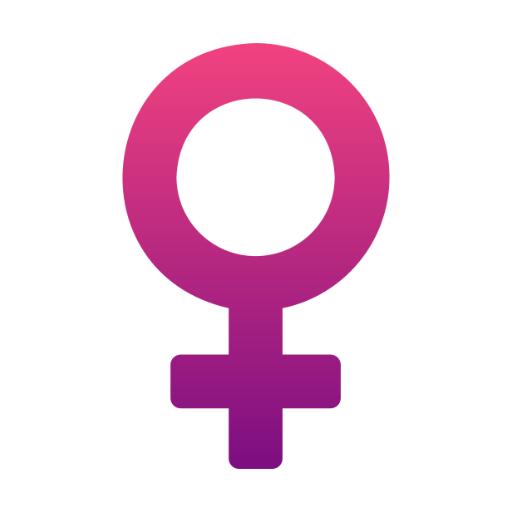
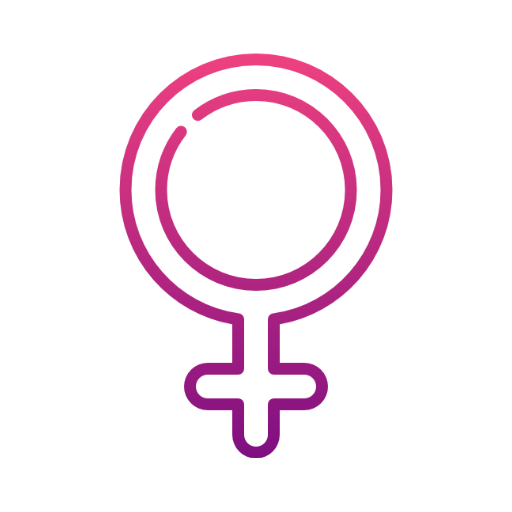
Ajustes - Michelle

Changed region(s): [[0.2188, 0.0625, 0.7812, 0.9375]]

diff --git a/feed-pet/client/src/components/ComponentsReact/PaginaAnimal/FormularioAnimal/styles.css b/feed-pet/client/src/components/ComponentsReact/PaginaAnimal/FormularioAnimal/styles.css
@@ -21,7 +21,8 @@
     border: none;
     border-radius: 0;
     border-bottom: 3px solid pink;
-    border-image: linear-gradient(to right, rgba(255,107,222,1) ,rgba(191,122,221,1), rgba(154,52,255,1));
+    /* border-image: linear-gradient(to right, rgba(255,107,222,1) ,rgba(191,122,221,1), rgba(154,52,255,1)); */
+    border-image: radial-gradient(circle, rgba(255,72,128,1) 42%, rgba(104,6,130,1) 100%);
     border-image-slice: 1;
 }
 
@@ -65,7 +66,7 @@
 }
 
 .radiooptionsAnimalForm .form-check{
-    border: 1px solid #ccc;
+    border: 0px solid #ccc;
     border-radius: 100%;
     height: 7vh;
     position: relative;
@@ -73,7 +74,7 @@
 }
 
 .radiooptionsAnimalForm .form-check{
-    border: 1px solid #ccc;
+    border: 0px solid #ccc;
     border-radius: 100%;
     float: left;
     height: 8vh;
@@ -101,73 +102,76 @@
 }
 
 
-.radiooptionsAnimalForm input:checked + label{
+/* .radiooptionsAnimalForm input:checked + label{
     -webkit-box-shadow: 0px 0px 15px 5px #ffffff; 
     box-shadow: 0px 0px 15px 5px #ffffff;
     
+} */
+.radiooptionsAnimalForm input:checked + label{
+    -webkit-box-shadow: 0px 0px 10px 3px #ff487fc0; 
+    box-shadow: 0px 0px 10px 3px #ff487fc0;
 }
 
 .radiooptionsAnimalForm .cao label{
-    background-image: url('../../../../assets/caoicon.png');
+    background-image: url(https://i.imgur.com/3bqxcS1.png);
     background-size: cover;
 }
 
 .radiooptionsAnimalForm .cao input:checked + label{
-    background-image: url('../../../../assets/caoicon-ativo.png');
+    background-image: url(https://i.imgur.com/jAT0KxA.png);
     background-size: cover;
 }
 
 .radiooptionsAnimalForm .gato label{
-    background-image: url('../../../../assets/gatoicon.png');
+    background-image: url(https://i.imgur.com/tldds0b.png);
     background-size: cover;
 }
 
 .radiooptionsAnimalForm .gato input:checked + label{
-    background-image: url('../../../../assets/gatoicon-ativo.png');
+    background-image: url(https://i.imgur.com/JFwTgTv.png);
     background-size: cover;
 }
 
 .radiooptionsAnimalForm .sim label{
-    background-image: url('../../../../assets/temdono-icon.png');
+    background-image: url(https://i.imgur.com/ZTrj4t3.png);
     background-size: cover;
 }
 
 .radiooptionsAnimalForm .sim input:checked + label{
-    background-image: url('../../../../assets/temdono-icon-ativo.png');
+    background-image: url(https://i.imgur.com/iU7mJQA.png);
     background-size: cover;
 }
 
 
 .radiooptionsAnimalForm .nao label{
-    background-image: url('../../../../assets/naotemdono-icon.png');
+    background-image: url(https://i.imgur.com/SExCzss.png);
     background-size: cover;
 }
 
 .radiooptionsAnimalForm .nao input:checked + label{
-    background-image: url('../../../../assets/naotemdono-icon-ativo.png');
+    background-image: url(https://i.imgur.com/p3DOPxB.png);
     background-size: cover;
 }
 
 .radiooptionsAnimalForm .macho label{
-    background-image: url('../../../../assets/masculine.png');
+    background-image: url(https://i.imgur.com/q4sjFCU.png);
     background-size: cover;
 }
 
 .radiooptionsAnimalForm .macho input:checked + label{
-    background-image: url('../../../../assets/masculine-ativo.png');
+    background-image: url(https://i.imgur.com/3d3WRcl.png);
     background-size: cover;
 }
 
 .radiooptionsAnimalForm .femea label{
-    background-image: url('../../../../assets/femenine.png');
+    background-image: url(https://i.imgur.com/lhqDTgx.png);
     background-size: cover;
 }
 
 .radiooptionsAnimalForm .femea input:checked + label{
-    background-image: url('../../../../assets/femenine-ativo.png');
+    background-image: url(https://i.imgur.com/StXg6a3.png);
     background-size: cover;
 }
-
 .colunaAnimalForm{
     display: flex;
     flex-direction: row;
@@ -185,11 +189,11 @@
 }
 
 .botaocentralizado button{
-    background-color:#ff4880;
+    background-color:#680682;
     color: white;
 }
 
 .botaocentralizado button:hover{
-    background-color:#e01e58;
+    background-color:#680682;
     color: white;
 }

diff --git a/feed-pet/client/src/components/ComponentsReact/Home/Pesquisa-Estilo/style.css b/feed-pet/client/src/components/ComponentsReact/Home/Pesquisa-Estilo/style.css
@@ -29,7 +29,6 @@
     color: black !important;
 
 }
-
 .select{
     align-self: flex-end;
     flex: auto;
@@ -134,7 +133,7 @@
 }
 
 .radiooptions .form-check{
-    border: 1px solid #ccc;
+    border: 0px solid #ccc;
     border-radius: 100%;
     height: 7vh;
     position: relative;
@@ -142,7 +141,7 @@
 }
 
 .radiooptions .form-check{
-    border: 1px solid #ccc;
+    border: 0px solid #ccc;
     border-radius: 100%;
     float: left;
     height: 8vh;
@@ -176,38 +175,38 @@
     
 }
 .radiooptions .desaparecidoinput:checked + label{
-    background-image: url('../../../../assets/fundoopcoes.png');
+    background-image: url(https://i.imgur.com/0xIk2Ew.png);
     background-size: cover;
 }
 
 .radiooptions .naoinput:checked + label{
-    background-image: url('../../../../assets/dog-seating-ativo.png');
+    background-image: url(https://i.imgur.com/p3DOPxB.png);
     background-size: cover;
 }
 
 .radiooptions .femeainput:checked + label{
-    background-image: url('../../../../assets/femea-ativo.png');
+    background-image: url(https://i.imgur.com/StXg6a3.png);
     background-size: cover;
 }
 .radiooptions .machoinput:checked + label{
-    background-image: url('../../../../assets/macho-ativo.png');
+    background-image: url(https://i.imgur.com/3d3WRcl.png);
     background-size: cover;
 }
 
 
 
 .radiooptions .siminput:checked + label{
-    background-image: url('../../../../assets/dog-with-belt-walking-with-a-man-ativo.png');
+    background-image: url(https://i.imgur.com/iU7mJQA.png);
     background-size: cover;
 }
 
 .radiooptions .doginput:checked + label{
-    background-image: url('../../../../assets/dog-ativo.png');
+    background-image: url(https://i.imgur.com/jAT0KxA.png);
     background-size: cover;
 }
 
 .radiooptions .catinput:checked + label{
-    background-image: url('../../../../assets/cat-ativo.png');
+    background-image: url(https://i.imgur.com/JFwTgTv.png);
     background-size: cover;
 }
 .conjunto{
@@ -231,35 +230,35 @@
     }
 }
 .radiooptions .gato label{
-    background-image: url('../../../../assets/cat.png');
+    background-image: url(https://i.imgur.com/tldds0b.png);
     background-size: cover;
 }
 .radiooptions .cachorro label{
-    background-image: url('../../../../assets/dog.png');
+    background-image: url(https://i.imgur.com/3bqxcS1.png);
     background-size: cover;
 }
 .radiooptions .sim label{
-    background-image: url('../../../../assets/dog-with-belt-walking-with-a-man.png');
+    background-image: url(https://i.imgur.com/ZTrj4t3.png);
     background-size: cover;
 
 }
 .radiooptions .nao label{
-    background-image: url('../../../../assets/dog-seating.png');
+    background-image: url(https://i.imgur.com/SExCzss.png);
     background-size: cover;
 }
 
 .radiooptions .macho label{
-    background-image: url('../../../../assets/macho.png');
+    background-image: url(https://i.imgur.com/q4sjFCU.png);
     background-size: cover;
 
 }
 .radiooptions .femea label{
-    background-image: url('../../../../assets/femea.png');
+    background-image: url(https://i.imgur.com/lhqDTgx.png);
     background-size: cover;
 }
 
 .radiooptions .desaparecidoFiltro label{
-    background-image: url('../../../../assets/missing.png');
+    background-image: url(https://i.imgur.com/dWQBmQ9.png);
     background-size: cover;
 }
 .form-check{

diff --git a/feed-pet/client/src/components/PerfilNovo/styles.css b/feed-pet/client/src/components/PerfilNovo/styles.css
@@ -20,6 +20,7 @@ body {
   align-items: center;
   text-align: center;
   width: 80%;
+  padding: 30px 40px 30px 30px;
 }
 
 .iconesPerfil{
@@ -32,9 +33,9 @@ body {
   flex: 1;
   margin-top: 20px;
   background-color: #fff;
-  box-shadow: 0 0 1em rgba(0, 0, 0, 0.5);
+  box-shadow: 0 0 1em rgba(0, 0, 0, 0.603);
   margin-right: 3em;
-  padding: 10px 10px 10px 30px;
+  padding: 10px 10px 10px 10px;
   height: 70vh;
   width: 80%;
 }
@@ -71,6 +72,7 @@ body {
 }
 .totalperfil {
   display: flex;
+  border-radius: 3px;
 }
 #caixaanimais {
   flex: 1;
@@ -84,8 +86,7 @@ body {
   padding: 20px 15px;
   background: #ffffff;
   border-radius: 10px;
-  box-shadow: 0 0 40px #ff487f93;
-  margin-right: 30px !important;
+  box-shadow: 0 0 40px #ff487fde;
   font-weight: 600;
   margin: 0;
   display: flex;

diff --git a/feed-pet/client/src/components/PerfilNovo/index.js b/feed-pet/client/src/components/PerfilNovo/index.js
@@ -382,10 +382,7 @@ export function Perfilnovo(props) {
                     </div>
                   </div>
                 </li>
-                <li>
-                  <div className="hoverWrapper">
-                    Show Div 1<div id="hoverShow1"></div>
-                  </div>
+                <li> 
                   <div className="timeline-time">
                     <span className="date">10 Julho 2021</span>
                     <span className="time">20:43</span>

diff --git a/feed-pet/client/src/components/ComponentsReact/AlertaAnimal/ModalGerarAlerta/styles.css b/feed-pet/client/src/components/ComponentsReact/AlertaAnimal/ModalGerarAlerta/styles.css
@@ -53,7 +53,7 @@
   border: none;
   border-radius: 0;
   border-bottom: 3px solid pink;
-  border-image: linear-gradient(42deg, rgba(255,72,128,1) 19%, rgba(104,6,130,1) 100%);
+  border-image:  radial-gradient(circle, rgba(255,72,128,1) 42%, rgba(104,6,130,1) 100%);
   border-image-slice: 1;
   width: 100%;
 

diff --git a/feed-pet/client/src/components/Menu/styles.css b/feed-pet/client/src/components/Menu/styles.css
@@ -18,6 +18,7 @@
 }
 .alerta {
     background-color: #ff4880;
+    margin-right: 2px !important;
 }
 .botaopesquisa {
   background-color: #8fc424;
